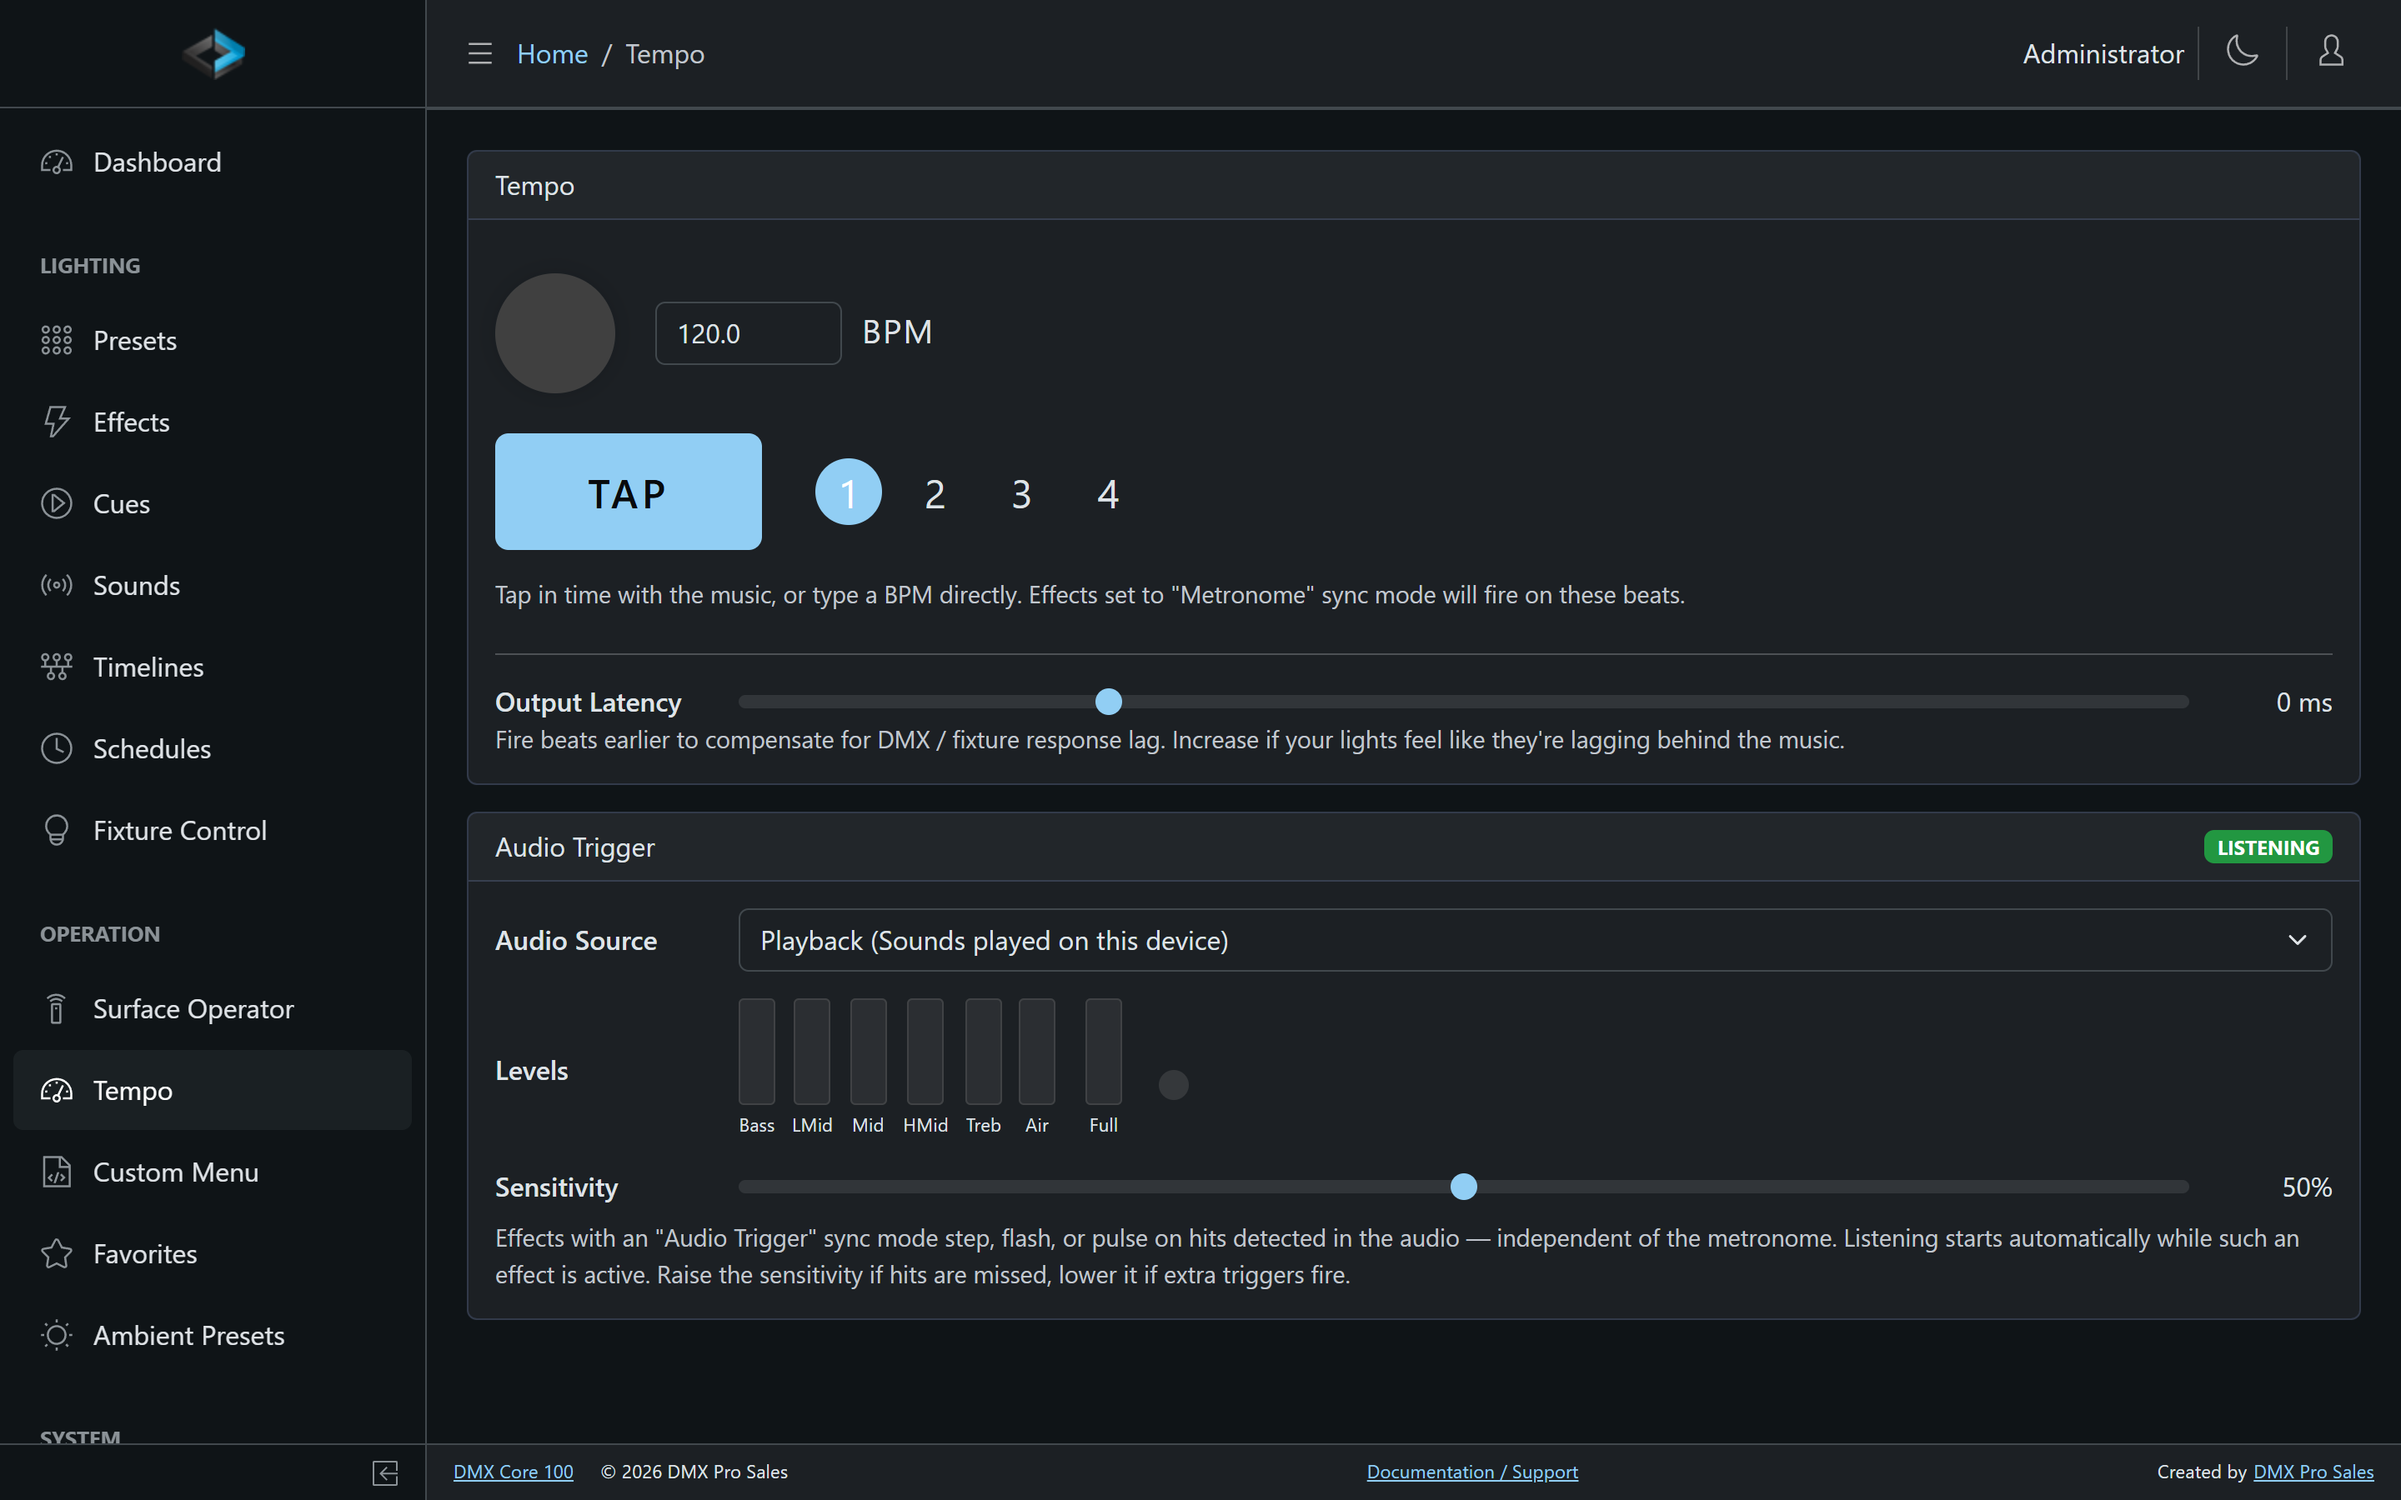
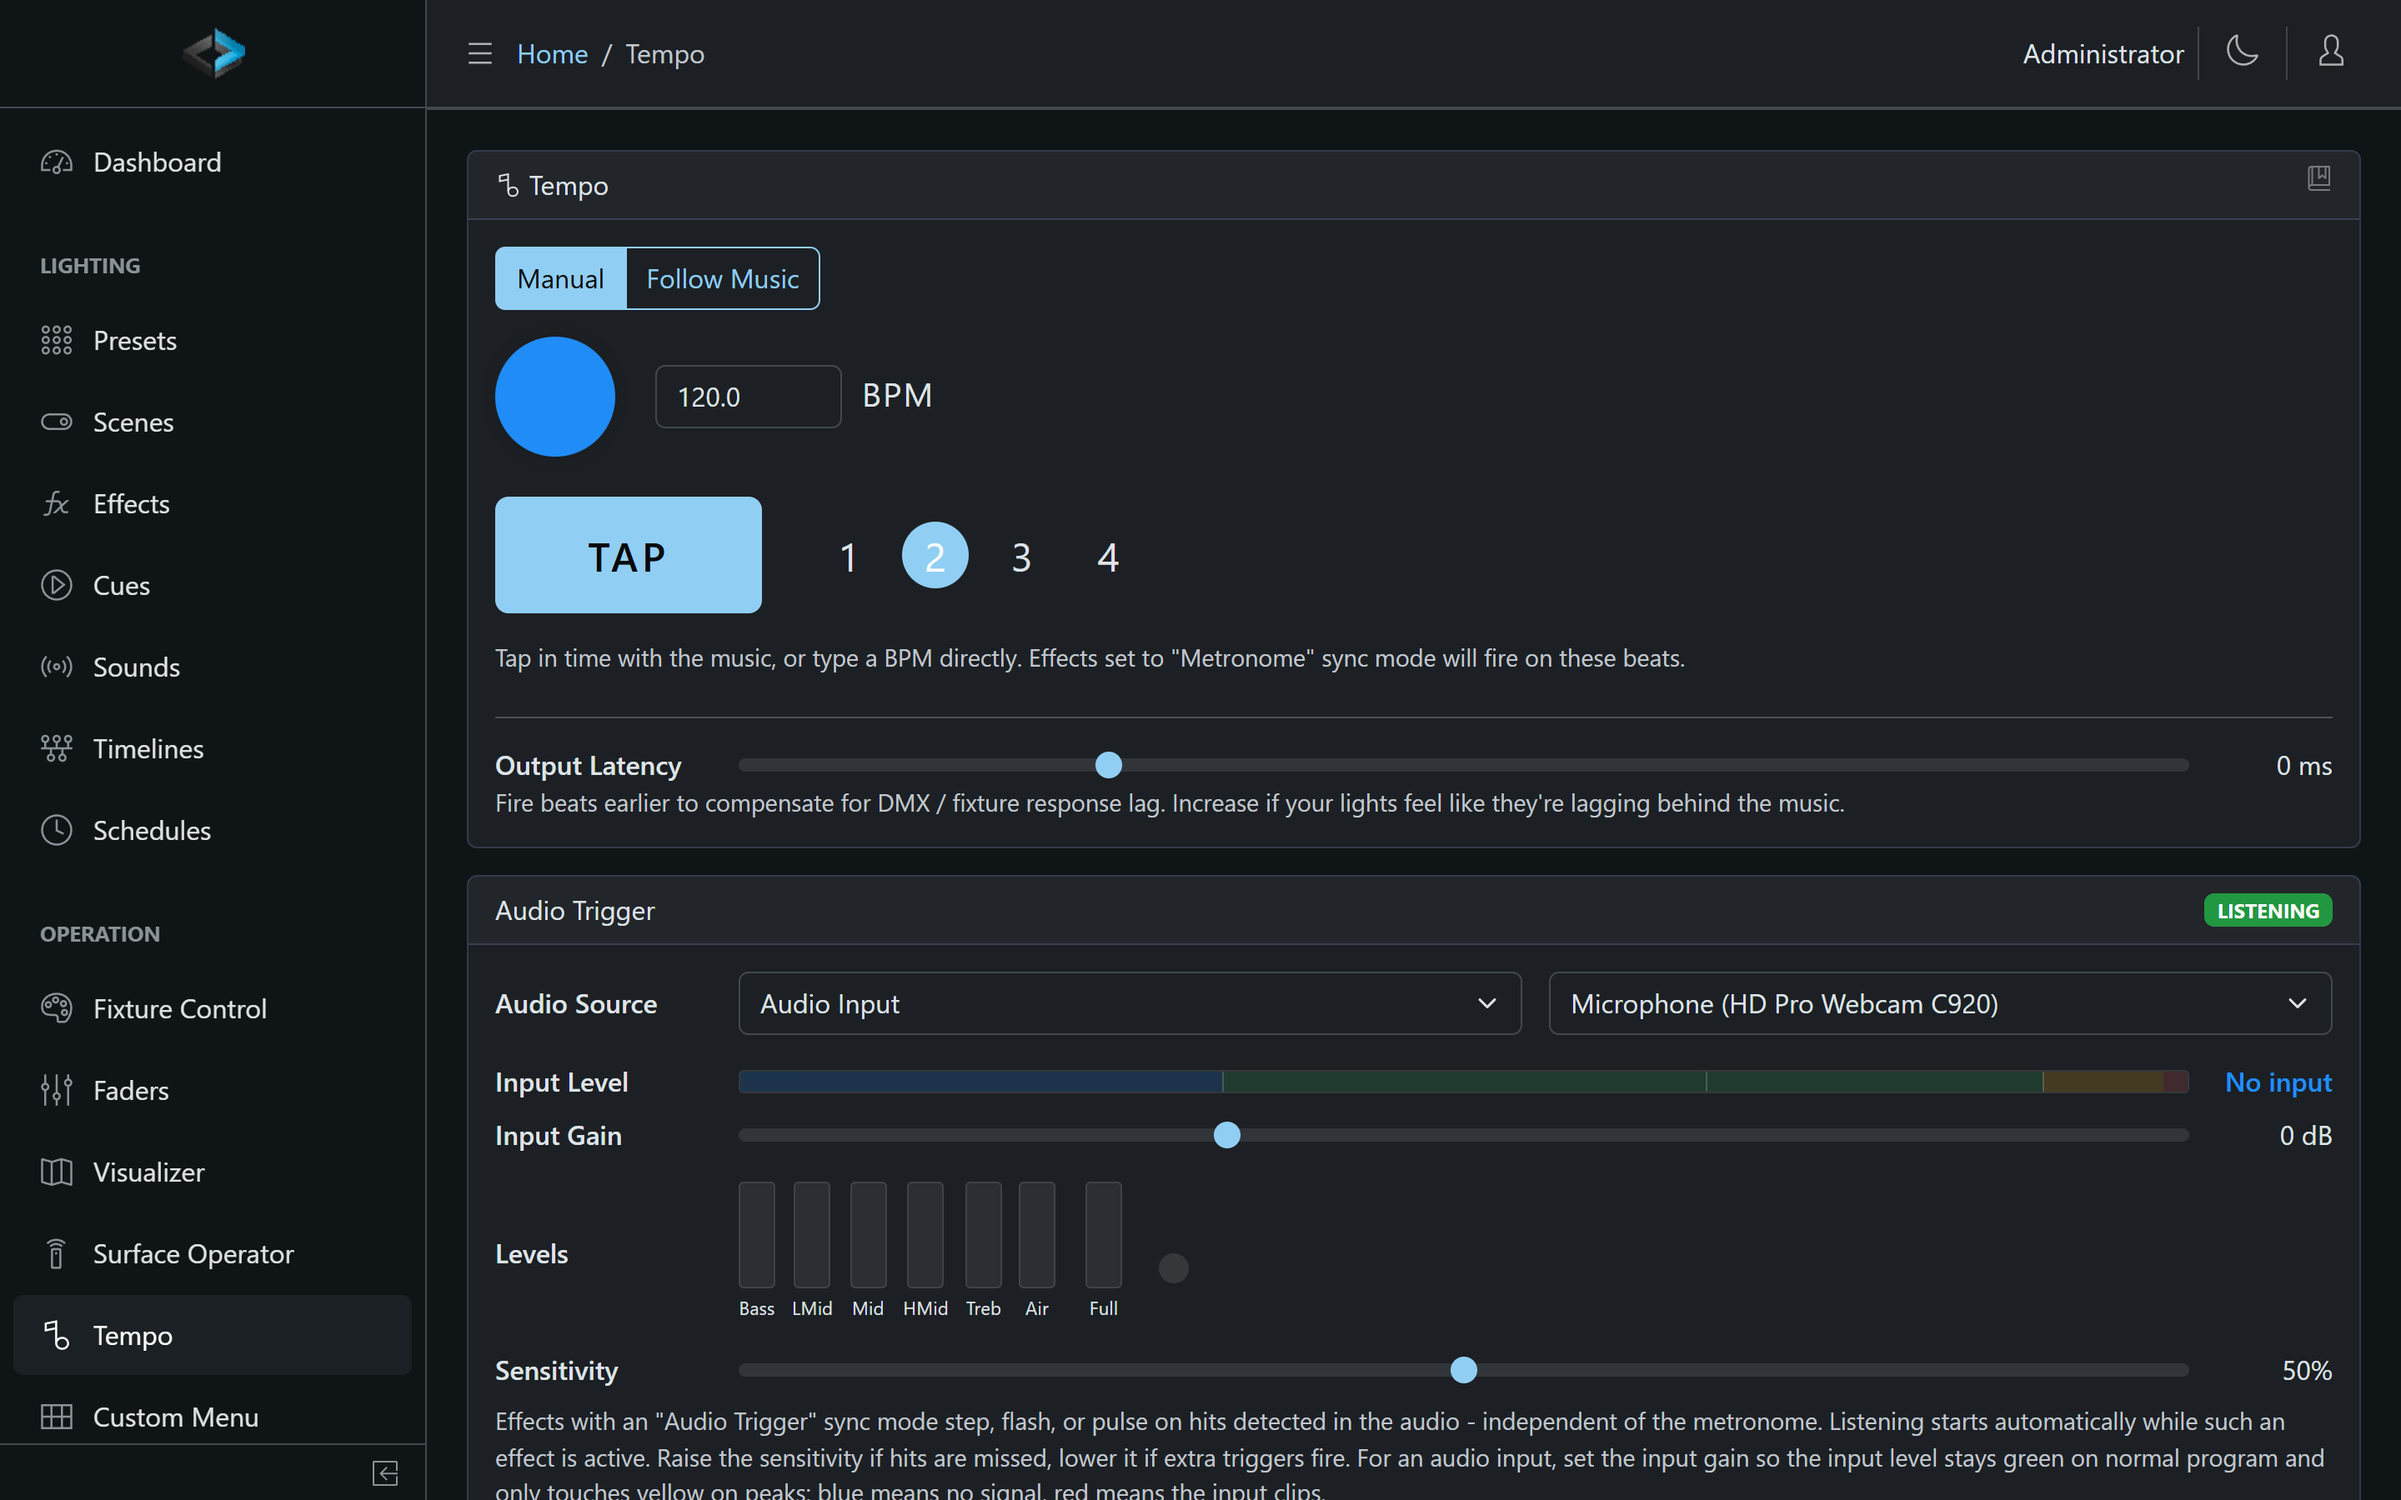
Tempo & Audio Sync: the metronome's Follow Music source (Core 8d7b9ea1, MagnusEngine c334b09), the Music Signals card and the audio input controls. Metronome: Manual or Follow Music, with Searching / Locked / Holding instead of a BPM while following, what it needs (a clear feed, the silence floor wi

diff --git a/src/content/docs/dmx-core-100/lighting/tempo.md b/src/content/docs/dmx-core-100/lighting/tempo.md
@@ -1,28 +1,71 @@
 ---
 title: Tempo & Audio Sync
-description: Step effects on a metronome beat, or on beats detected in DMX Core playback or a USB sound card input
+description: Step effects on a metronome beat that you tap or that follows the music, or on hits detected in DMX Core playback or a USB sound card input
 ---
 
-Effects don't have to run on their own internal clock. They can fire on a musical beat, or step when beats are detected in DMX Core's own playback or a live input from a USB sound card. The **Tempo** page (under **Operation** in the Web UI) is the control center for both.
+Effects don't have to run on their own internal clock. They can fire on a musical beat, or step when hits are detected in DMX Core's own playback or a live input from a USB sound card. The **Tempo** page (under **Operation** in the Web UI) is the control center for both.
 
-![Tempo page - metronome BPM/tap and the audio trigger levels](/assets/web/tempo.png)
+![Tempo page - the metronome with its Manual / Follow Music switch, and the audio trigger](/assets/web/tempo.png)
 
 ## Metronome
 
-Set the tempo by typing a **BPM** directly or by hitting **TAP** in time with the music. The beat indicator cycles through beats 1–4 so you can confirm the phase.
+The metronome is the beat clock for effects. [Effects](/dmx-core-100/lighting/effects) with their sync mode set to **Metronome - Downbeat** fire once per bar, and **Metronome - All Beats** fire on every beat. The beat indicator cycles through beats 1-4 so you can confirm the phase.
 
-[Effects](/dmx-core-100/lighting/effects) with their sync mode set to **Metronome - Downbeat** fire once per bar, and **Metronome - All Beats** fire on every beat. Tap Tempo is also available as an action on [control surfaces](/dmx-core-100/control-surfaces), [custom menus](/dmx-core-100/scheduling-automation/custom-menus), and [input triggers](/dmx-core-100/scheduling-automation/input-triggers), so the operator can retap from wherever they're working.
+Choose where the beat comes from at the top of the card:
+
+- **Manual** - you set the tempo
+- **Follow Music** - the beat comes from the music DMX Core is listening to
+
+### Manual
+
+Type a **BPM** directly or hit **TAP** in time with the music. Tap Tempo is also available as an action on [control surfaces](/dmx-core-100/control-surfaces), [custom menus](/dmx-core-100/scheduling-automation/custom-menus), and [input triggers](/dmx-core-100/scheduling-automation/input-triggers), so the operator can retap from wherever they're working.
+
+### Follow Music
+
+In **Follow Music** a beat tracker listens to the audio source set on the **Audio Trigger** card, predicts where the next beats fall, and drives the metronome from them. Effects then step on the beat of the music without anyone tapping, and they keep stepping evenly through busy passages and short breaks. Listening runs for as long as Follow Music is on.
+
+Instead of a BPM, the card shows how the metronome is following:
+
+- **Searching** - listening for a steady beat. The metronome keeps running at its previous tempo meanwhile. Expect a few seconds after the music starts.
+- **Locked** - the metronome is on the beat of the music.
+- **Holding** - the beat was lost (a breakdown without drums, a pause between songs). The metronome keeps the last tempo and phase until it locks again.
+
+Good to know:
+
+- The beat tracker needs to hear the music clearly. A line-level feed from the mixer or DJ booth into a USB sound card works best. With a microphone, set the **Silence Floor** first (see [Music Signals](#music-signals)): below it, nothing drives the beat, so an empty room never sets a tempo.
+- On some songs the tracker can lock half a beat off, or at double or half speed, typically club tracks with strong off-beat hi-hats or bass. A chase or a wash looks the same either way; a flash that should land exactly on the beat is where it shows.
+- The Manual BPM is kept: switching back to **Manual** returns to it. **TAP** has no effect while following.
+- The setting is saved and restored when DMX Core restarts.
 
 ### Output Latency
 
-The **Output Latency** slider fires beats early to compensate for DMX and fixture response lag. If the lights feel like they're behind the music, increase it.
+The **Output Latency** slider fires beats early to compensate for DMX and fixture response lag. If the lights feel like they're behind the music, increase it. In **Follow Music** DMX Core already places each step on the DMX frame that goes out on the beat, so the slider only needs to cover the fixtures' own response time.
 
 ## Audio Trigger
 
-Effects with the **Audio Trigger** sync mode step, flash, or pulse on hits detected in audio - independent of the metronome. Listening starts automatically while such an effect is active.
+Effects with the **Audio Trigger** sync mode step, flash, or pulse on hits detected in audio - independent of the metronome. Listening starts automatically while such an effect is active, while the Tempo page is open, and while the metronome follows the music.
 
-- **Audio Source** - analyze the device's own **playback** (sounds played on the DMX Core 100) or a live **audio input from a USB sound card**. The audio board and the ADIO board are output only and have no audio input.
+- **Audio Source** - analyze the device's own **playback** (sounds played on the DMX Core 100) or a live **audio input from a USB sound card**. The audio board and the ADIO board are output only and have no audio input. For an audio input, pick the device, or **Auto** to use whichever input is plugged in.
+- **Input Level** and **Input Gain** (audio input only) - set the gain so the level stays green on normal program and only touches yellow on peaks. Blue means no signal, red means the input clips.
 - **Levels** - live meters for the frequency bands (Bass, LMid, Mid, HMid, Treb, Air, and Full) show what the detector hears
 - **Sensitivity** - raise it if hits are missed, lower it if extra triggers fire
 
+The badge on the card shows **LISTENING**, **INPUT LOST** when the audio input stops delivering sound (unplugged; listening resumes by itself when it is back), or **NO INPUT** with the reason when the source cannot be started (it is retried automatically).
+
 The **Sound Reactive** effect generator steps on those detected hits, for example advancing a chaser. See [Effects](/dmx-core-100/lighting/effects).
+
+## Music Signals
+
+The **Music Signals** card shows what DMX Core hears in the music, from the same audio source as the Audio Trigger card:
+
+- **Activity** - how exciting the music is right now (loudness and how busy the hits are), scaled so a quiet and a loud master use the same range
+- **Energy** - activity in five steps, from Quiet to Peak
+- **State** - Silence, music without a kick (**No kick**), or a running **Kick**. The light next to it flashes on a new section, a drop, or a breakdown.
+- **Beat** - **Locked** when the beat tracker trusts its beat, **Searching** otherwise, with a meter for how well the predicted beats land on the music
+- **Bar** - **Downbeat found** when the tracker also hears where each bar starts (it assumes four beats to a bar), **Beats only** when it doesn't. The tempo next to it is the tracker's estimate, not an exact measurement of the song.
+
+### Calibration
+
+- **Activity Gain** - if the meter rarely leaves the low steps on a busy track, raise it; if it sits at Peak all the time, lower it.
+- **Level** and **Silence Floor** - below the silence floor (the line on the level meter) the input reads as Silence however busy it sounds, so an empty room never drives the lights or the beat. The default suits a line feed from a mixer.
+- **Measure Room** - with a microphone, turn the music off and press **Measure Room**: it listens for 5 seconds and sets the floor just above the room. Music then needs to be clearly louder than the room to count.

diff --git a/src/content/docs/dmx-core-100/release-notes.md b/src/content/docs/dmx-core-100/release-notes.md
@@ -5,6 +5,9 @@ description: Release notes and highlights
 
 | Version | Date | Highlights |
 |---------|------|------------|
+| v2026.1104.x | 11/04/2026 | The metronome can [follow the music](/dmx-core-100/lighting/tempo#follow-music): switch the **Tempo** page from **Manual** to **Follow Music** and a beat tracker listening to the audio source predicts the beats and drives the metronome, so effects on a **Metronome** sync mode step on the beat of the music without anyone tapping. The card shows **Searching**, **Locked** or **Holding** (the beat was lost, the last tempo is kept) instead of a BPM, each followed beat is placed on the DMX frame that goes out on the beat, and the Manual BPM is kept for when you switch back. Below the silence floor nothing drives the beat |
+| v2026.1104.x | 11/04/2026 | New [Music Signals](/dmx-core-100/lighting/tempo#music-signals) card on the **Tempo** page: how exciting the music is (activity and five energy steps), silence, music without a kick or a running kick, a light on a new section, drop or breakdown, and the beat tracker's lock. A **Silence Floor** with **Measure Room** keeps an empty room (a microphone hearing a fan or a conversation) from reading as music |
+| v2026.1103.x | 11/03/2026 | [USB audio input](/dmx-core-100/lighting/tempo#audio-trigger) on the **Tempo** page: an **Input Level** meter (blue no signal, green good, yellow hot, red clipping) and an **Input Gain** slider, an **Auto** input choice that uses the input that is plugged in, and a badge that shows when the input is lost. Unplugging the input no longer leaves the levels stuck, plugging it back in resumes listening by itself, and an input that failed to start is retried |
 | v2026.1026.x | 10/26/2026 | New [Fixture Profile Editor](/dmx-core-100/lighting/fixture-profile-editor) in the Web UI: build a profile by hand from the DMX chart in a manual, fix an imported one, or make a variant. **New profile** on **Lighting Setup > Profiles** starts from a template (dimmer, RGB, RGBW, moving head basics, or a pixel bar with one RGB block per pixel), **Edit** and **Duplicate** are on each profile's page, and **Add profile…** on a fixture has **Build the profile by hand**, which returns to the fixture with the new profile selected. Modes are tabs; each channel is edited by what it does (dimmer, color, position, shutter modes, color wheel slots with swatches, gobo, custom options), with fine, inverted, a fallback value and the beams (pixels) it drives. Problems show as you type, and saving a profile that fixtures use first lists what changes for them (functions presets use that are gone, options that no longer exist, new channel overlaps); renamed modes take their fixtures along. Each channel links to the [Channel Tester](/dmx-core-100/configuration/channel-tester) at that fixture's address. Re-importing a profile now updates fixtures that use it right away. |
 | v2026.1027.x | 10/27/2026 | [Preset, cue and sound faders](/dmx-core-100/scheduling-automation/custom-menus#preset-cue-and-sound-faders): a custom menu Slider or [Faders page](/dmx-core-100/scheduling-automation/custom-menus#faders-page) entry can play a preset, a cue or a sound like a playback fader on a desk. Pushing it up from 0 starts the item at the fader's level, the fader sets its level while it runs (a preset's brightness, a cue's brightness and the volume of its sound, a sound's volume), and 0 stops it. A cue or sound fader has its own **Loop** count (0 plays until the fader goes back to 0), and the unit's default loop and fade times never apply to a fader. Strips show **On** or **Playing** wherever the item was started, a speaker mark for audio, and a preset's scene color as the chip. When the item stops while the fader is up (a cue reaching its end, a stop elsewhere), the fader stays put and must go back to 0 before it starts the item again. The same targets work on control surface knobs and faders, input triggers and Control Value drives. A menu that uses them does not load on older software, so update every unit first |
 | v2026.1027.x | 10/27/2026 | Fixed: a sound played by a [schedule](/dmx-core-100/scheduling-automation/schedules) was silent. Also fixed: a sound with its volume set below 100% faded in to a lower volume than it plays at without a fade (90% faded in to 81%) |
